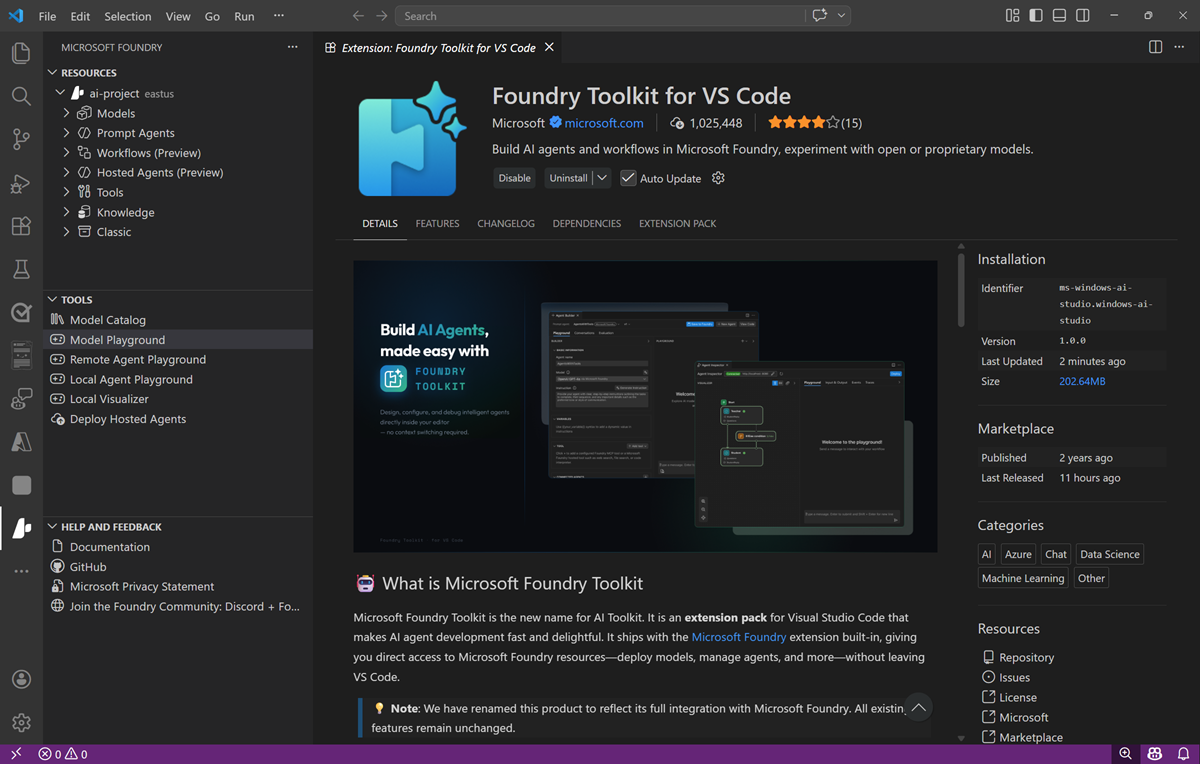
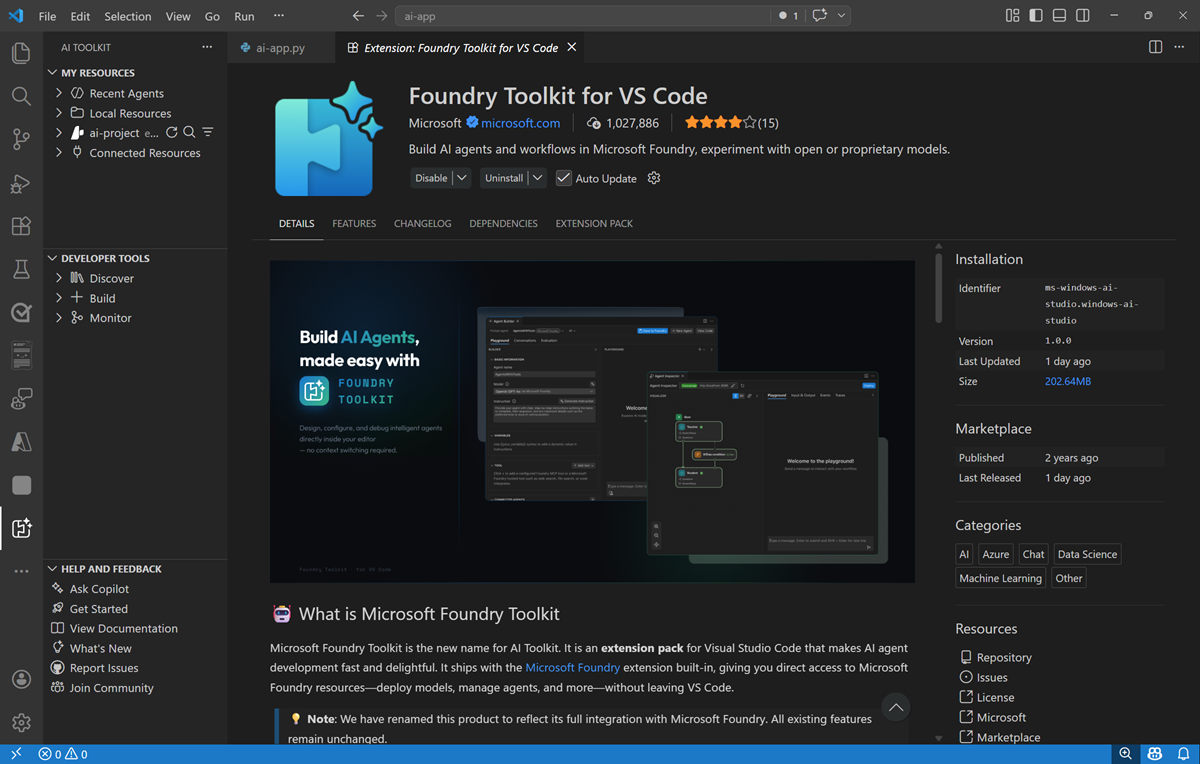
Update Toolkit UI

diff --git a/Instructions/Exercises/01-Explore-ai-studio.md b/Instructions/Exercises/01-Explore-ai-studio.md
@@ -119,7 +119,7 @@ As a developer, you may spend some time working in the Foundry portal; but you'r
 1. Open Visual Studio Code, and in the navigation bar on the left, view the **Extensions** page.
 
 1. Search the extensions marketplace for `Foundry Toolkit`, and install the **Foundry Toolkit for VS Code** extension.
-1. After installing the extension, select the **Microsoft Foundry** page in the left navigation bar.
+1. After installing the extension, select the **AI Toolkit** page in the left navigation bar.
 
     ![Screenshot of the Foundry Toolkit Visual Studio Code extension.](../media/foundry-vs-extension.png)
 
@@ -130,7 +130,7 @@ As a developer, you may spend some time working in the Foundry portal; but you'r
 
     ![Screenshot of a model in the  Foundry Toolkit Visual Studio Code extension.](../media/vscode-extension-model.png)
 
-1. In the Foundry Toolkit pane, in the **Tools** section, select **Model playground** and select the **gpt-4.1** model.
+1. In the Foundry Toolkit pane, in the **Developer Tools** section, expand **Build** and select **Model playground**. Then select the **gpt-4.1** model (if it is not already selected).
 
     An interactive playground in which you can test the model is opened in Visual Studio Code.
 
